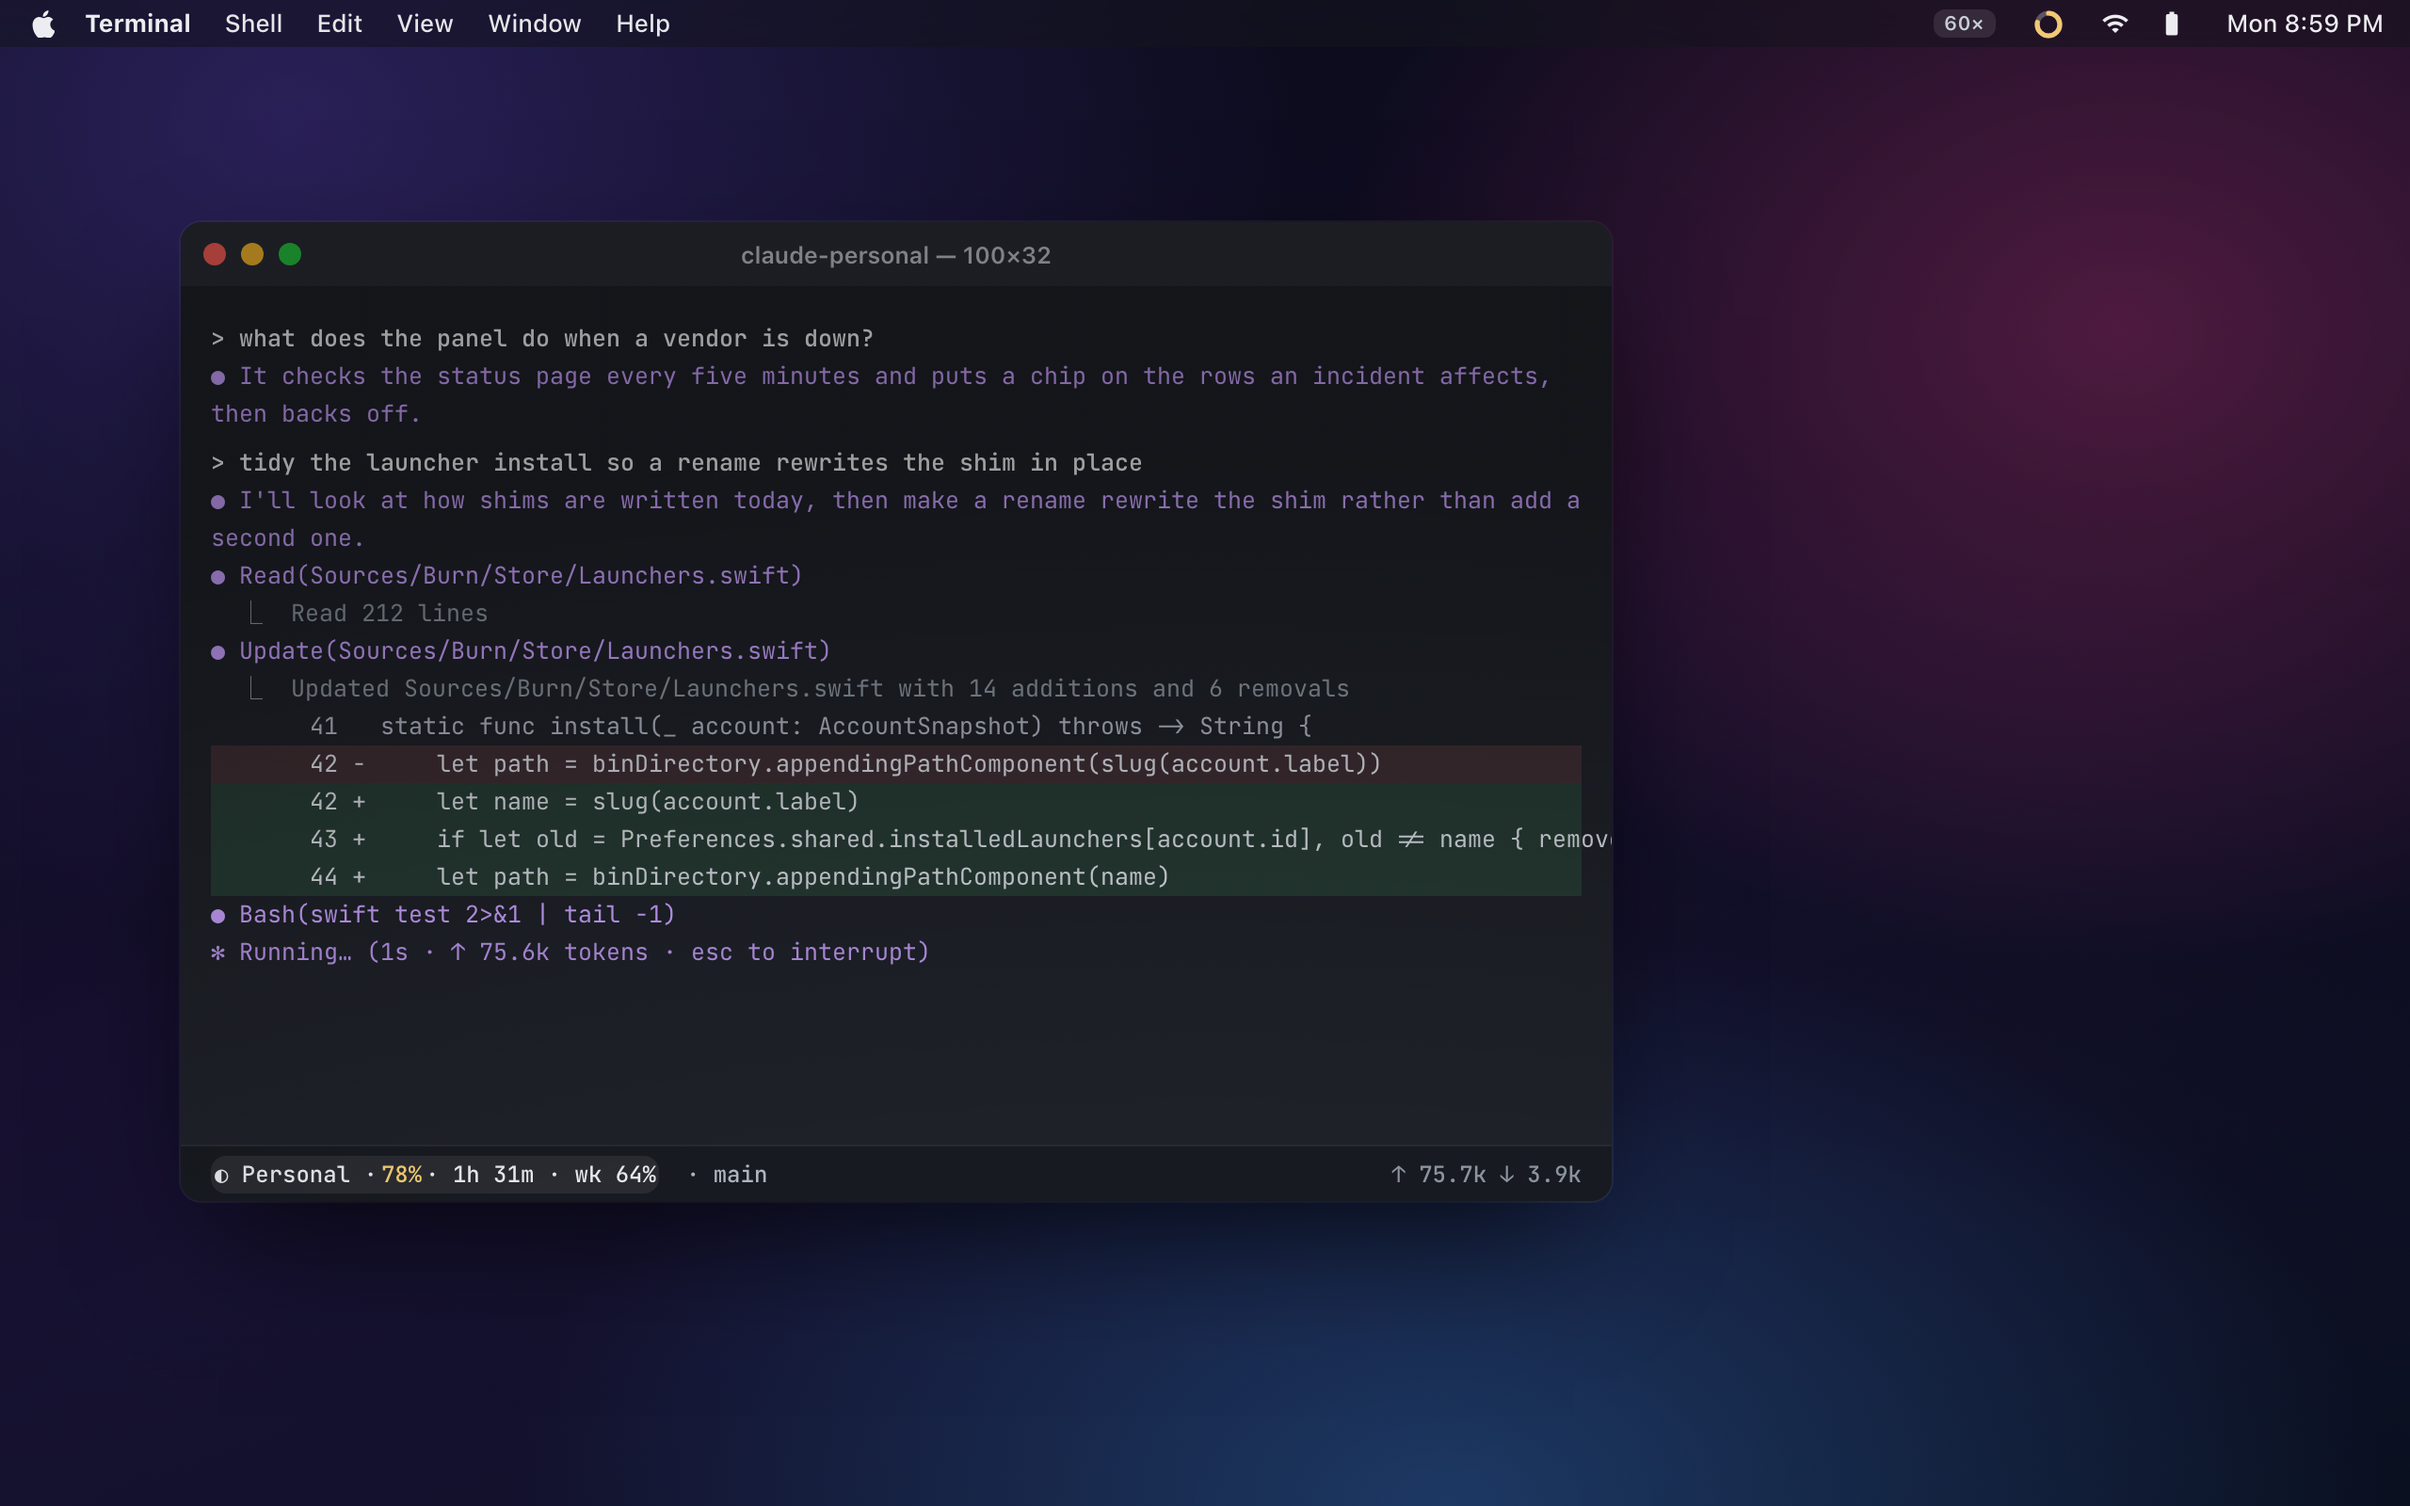
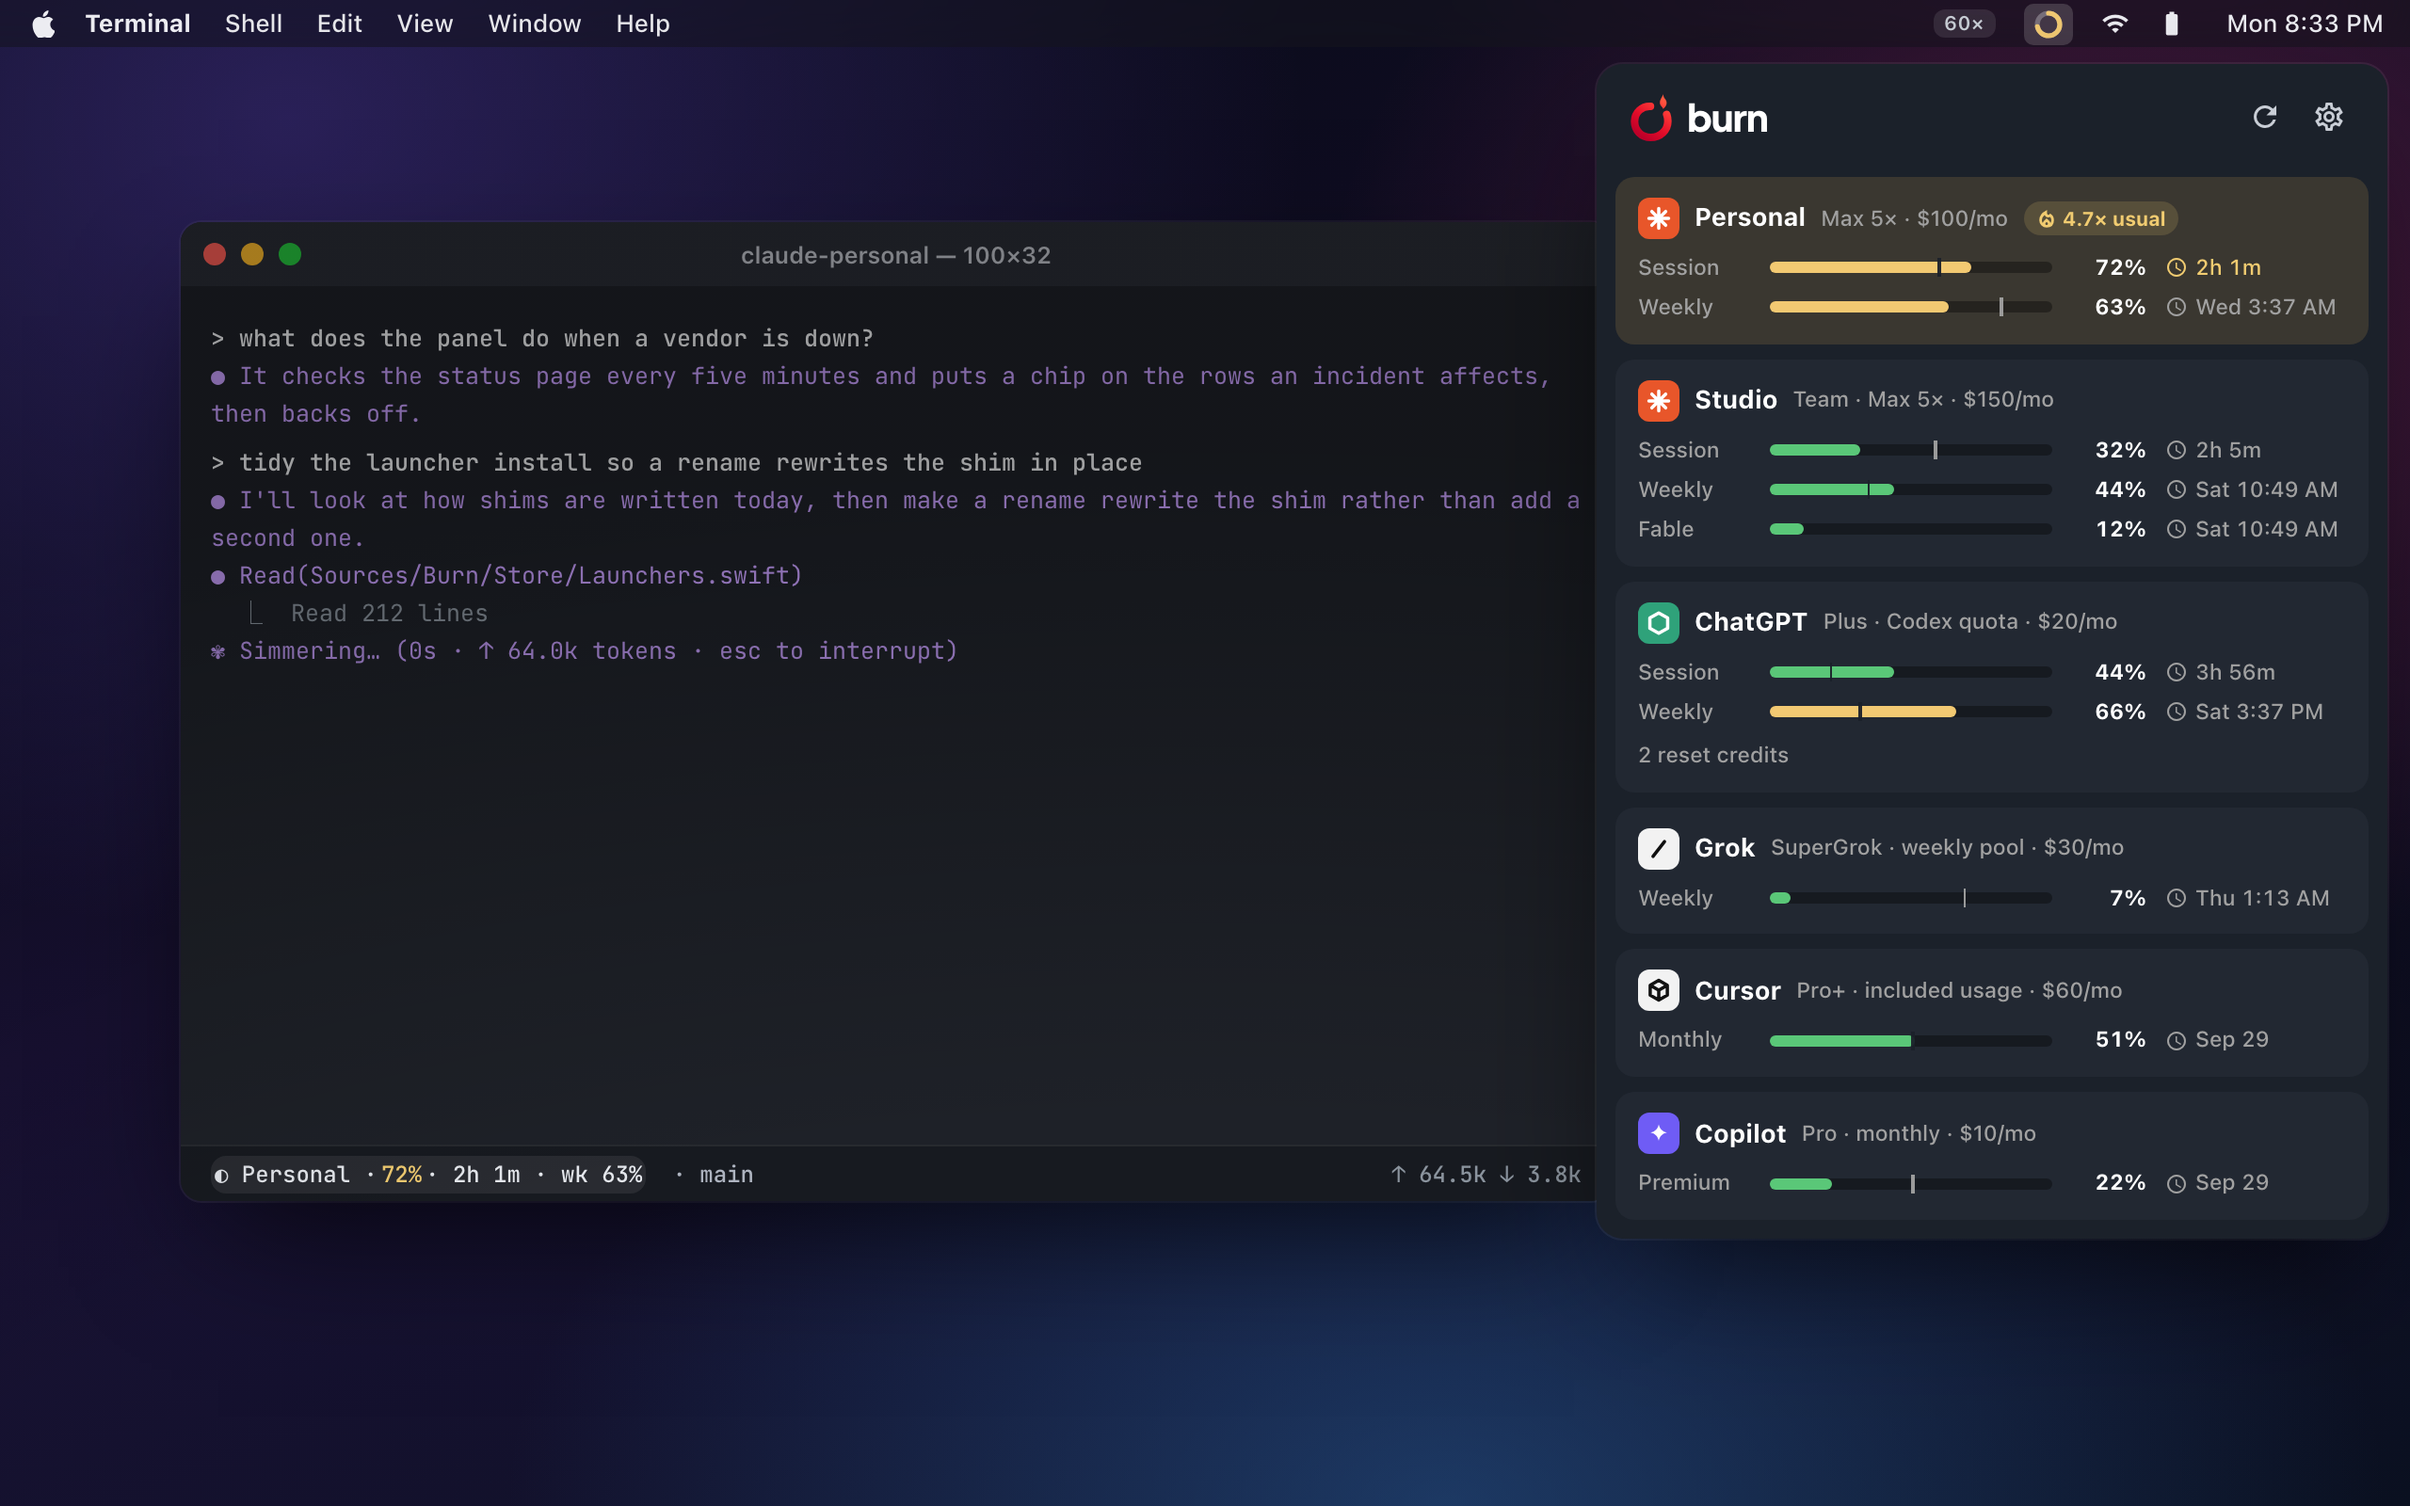
Demo: the burn is on screen within three seconds
Burn has twenty minutes of samples behind it when the demo starts, so the
yellow reset, amber card and 4.7× chip are there from the first frame; the panel
opens at 1.2 s; banners come one at a time a beat apart once it has; the
Claude Code session is mid-thought with tokens ticking from the first second.

diff --git a/site/demo/demo.js b/site/demo/demo.js
@@ -50,7 +50,7 @@
   const win = (id, title, kind, length, used, rate, resetIn, extra = {}) => ({ id, title, kind, length, used, rate, resetIn, prev: used, ...extra });
   const accounts = [
     { id: 'personal', vendor: 'claude', tile: 'claude', label: 'Personal', plan: 'Max 5× · $100/mo', identity: 'you@example.com', typical: 6, app: 'Claude',
-      windows: [win('session', 'Session', 'session', 5 * HOUR, 60, 28, 129 * 60), win('weekly', 'Weekly', 'weekly', 7 * DAY, 63, 2.2, 1.3 * DAY)] },
+      windows: [win('session', 'Session', 'session', 5 * HOUR, 68, 28, 129 * 60), win('weekly', 'Weekly', 'weekly', 7 * DAY, 63, 2.2, 1.3 * DAY)] },
     { id: 'studio', vendor: 'claude', tile: 'claude', label: 'Studio', plan: 'Team · Max 5× · $150/mo', identity: 'you@studio.example', typical: 9, app: 'Claude',
       windows: [win('session', 'Session', 'session', 5 * HOUR, 31, 6, 133 * 60), win('weekly', 'Weekly', 'weekly', 7 * DAY, 44, 0.4, 4.6 * DAY), win('fable', 'Fable', 'model', 7 * DAY, 12, 0.2, 4.6 * DAY)] },
     { id: 'chatgpt', vendor: 'codex', tile: 'gpt', label: 'ChatGPT', plan: 'Plus · Codex quota · $20/mo', identity: 'you@example.com', typical: 8, app: 'ChatGPT', foot: '2 reset credits',
@@ -71,6 +71,8 @@
   // ── time: the viewer's clock, then sixty times faster ─────────────────────────────────────────────────────────
   const simStart = new Date();
   let simNow = new Date(simStart);
+  // Burn has been watching for twenty minutes when the demo starts, so the pace verdicts are in from the first frame.
+  const historyStart = new Date(simStart.getTime() - 20 * 60 * 1000);
   for (const a of accounts) for (const w of a.windows) { w.resetAt = new Date(simStart.getTime() + w.resetIn * 1000); w.periodStart = new Date(w.resetAt.getTime() - w.length * 1000); }
 
   const fmtClock = d => d.toLocaleTimeString('en-US', { hour: 'numeric', minute: '2-digit' });
@@ -91,7 +93,7 @@
 
   // ── the pace maths, as in Pace.swift ──────────────────────────────────────────────────────────────────────────
   function pace(w, now = simNow) {
-    const sinceStart = (now - Math.max(w.periodStart, simStart)) / 1000;
+    const sinceStart = (now - Math.max(w.periodStart, historyStart)) / 1000;
     const expected = clamp((1 - (w.resetAt - now) / 1000 / w.length) * 100, 0, 100);
     if (sinceStart < 15 * 60) return { verdict: 'early', expected, rate: w.rate };
     if (w.rate <= 0.05) return { verdict: 'stalled', expected, rate: 0 };
@@ -136,8 +138,8 @@
   }
   let touched = false;
   function introduce() {
-    setTimeout(() => { if (touched) return; ui.tray.classList.add('pulse'); ui.stage.classList.add('hinting'); }, 700);
-    setTimeout(() => { ui.tray.classList.remove('pulse'); if (!touched) openPanel(true); }, 2300);
+    setTimeout(() => { if (touched) return; ui.tray.classList.add('pulse'); ui.stage.classList.add('hinting'); }, 350);
+    setTimeout(() => { ui.tray.classList.remove('pulse'); if (!touched) openPanel(true); }, 1200);
   }
   function fit() {
     if (!ui.box) return;
@@ -218,16 +220,20 @@
       el.remove();
     };
     (async () => {
-      // pick up mid-session, so the window is never empty
+      // pick up mid-session — the prompt already asked, the model already thinking — so tokens burn from the first second
       line('u', '> what does the panel do when a vendor is down?');
       line('a', '● It checks the status page every five minutes and puts a chip on the rows an incident affects, then backs off.');
       bump();
+      let first = true;
       for (let round = 0; ; round++) {
         for (const task of TASKS) {
-          await wait(2200 + Math.random() * 1500);
+          if (!first) await wait(2200 + Math.random() * 1500);
           for (const step of task) {
             const [kind] = step;
-            if (kind === 'user') { const el = line('u', '> '); await stream(el, step[1], '> ', 34); tokens.up += 40; await wait(500); }
+            if (kind === 'user') {
+              if (first) { line('u', '> ' + step[1]); first = false; await wait(250); }
+              else { const el = line('u', '> '); await stream(el, step[1], '> ', 34); tokens.up += 40; await wait(500); }
+            }
             if (kind === 'think') await spin(step[1], step[2]);
             if (kind === 'say') { const el = line('a', '● '); await stream(el, step[1], '● '); await wait(400); }
             if (kind === 'tool') {
@@ -451,8 +457,9 @@
 
   // ── the alert rules, as in Alerts.swift ───────────────────────────────────────────────────────────────────────
   const delivered = new Set();
+  let armed = false;
   function alerts() {
-    if (!settings.notify) return;
+    if (!settings.notify || !armed) return;
     const hr = simNow.getHours();
     if (settings.quiet && (hr >= 22 || hr < 7)) return;
     for (const a of visible()) for (const w of pooled(a)) {
@@ -465,13 +472,25 @@
         notify(a, `${a.label} ${w.title.toLowerCase()} is burning ${multipleText(multipleOf(a, w))} your usual`, `${rateText(w.rate)} now · ${rateText(a.typical)} is typical · resets ${whenIn(w.resetAt)}`, `${a.id}|${w.id}|surge|${period}`);
     }
   }
+  // Banners arrive one at a time, a beat apart, so a burst of verdicts reads as a sequence rather than a pile.
+  const queue = [];
+  let lastShown = 0;
   function notify(a, title, body, key) {
     if (delivered.has(key)) return; delivered.add(key);
+    queue.push({ title, body });
+    drain();
+  }
+  function drain() {
+    if (!queue.length) return;
+    const gap = 1400 - (performance.now() - lastShown);
+    if (gap > 0) { setTimeout(drain, gap); return; }
+    const { title, body } = queue.shift(); lastShown = performance.now();
     const el = h('div', { class: 'notif', role: 'status' }, h('img', { src: '../assets/burn-midnight.svg', alt: '' }),
       h('div', {}, h('b', {}, 'Burn'), h('span', { class: 'nt' }, title), h('span', { class: 'nb' }, body)), h('span', { class: 'when' }, 'now'));
     el.addEventListener('click', () => { dismiss(el); openPanel(true); });
     ui.notifs.append(el);
     setTimeout(() => dismiss(el), 7000);
+    if (queue.length) setTimeout(drain, 1400);
   }
   function dismiss(el) { if (!el.isConnected) return; el.classList.add('out'); setTimeout(() => el.remove(), 450); }
   let toastTimer;
@@ -484,7 +503,7 @@
 
   // ── interactions ──────────────────────────────────────────────────────────────────────────────────────────────
   function openPanel(open) {
-    if (open) { ui.stage.classList.remove('hinting'); ui.tray.classList.remove('pulse'); }
+    if (open) { ui.stage.classList.remove('hinting'); ui.tray.classList.remove('pulse'); if (!armed) { armed = true; lastShown = performance.now() - 1000; } }
     ui.panel.classList.toggle('on', open);
     ui.tray.setAttribute('aria-expanded', String(open));
     ui.notifs.classList.toggle('aside', open);
